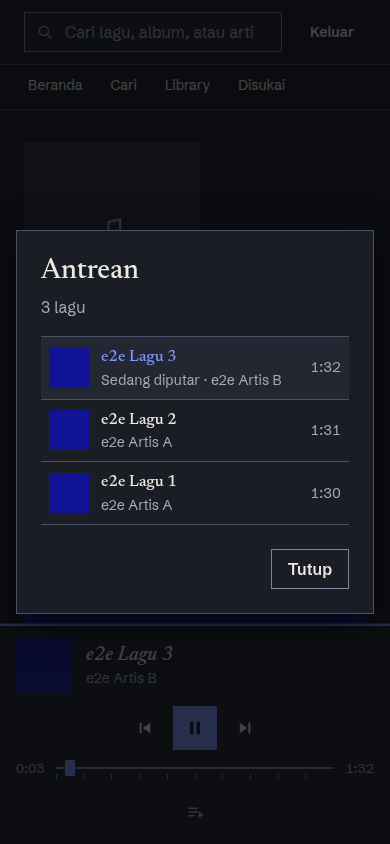
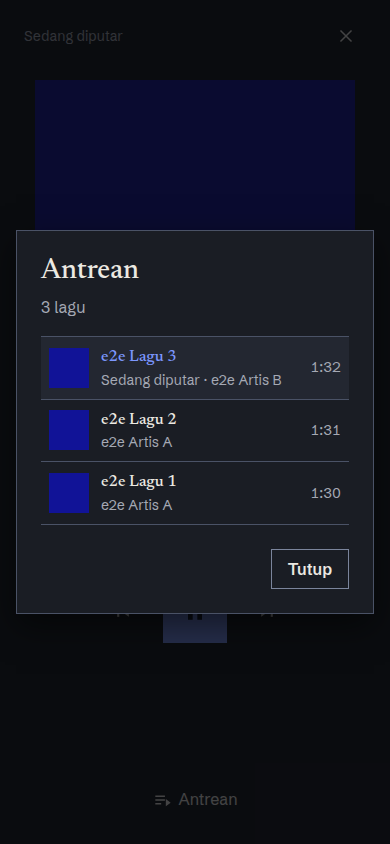
Screenshots ponsel Fase 2 sesudah redesain (mini-player, navigasi bawah, pemutar penuh)

diff --git a/docs/images/fase2/README.md b/docs/images/fase2/README.md
@@ -9,6 +9,8 @@ Dihasilkan oleh `e2e/screenshots.spec.ts` (Chrome, data contoh sintetis dari CI:
 | Artis | [desktop-artis.png](desktop-artis.png) | [ponsel-artis.png](ponsel-artis.png) |
 | Antrean | [desktop-antrean.png](desktop-antrean.png) | [ponsel-antrean.png](ponsel-antrean.png) |
 
+Ponsel sesudah redesain: mini-player 1 baris + navigasi bawah tampak di semua gambar ponsel di atas (lagu sedang diputar); pemutar penuh: [ponsel-pemutar-penuh.png](ponsel-pemutar-penuh.png).
+
 `ponsel-sebelum-redesain/` menyimpan tampilan ponsel **sebelum** mini-player dan navigasi bawah, sebagai pembanding.
 
 ## Memperbarui
